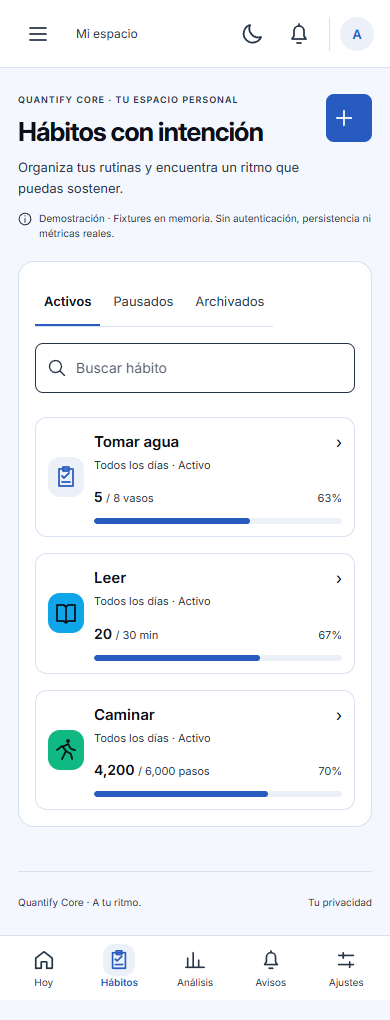
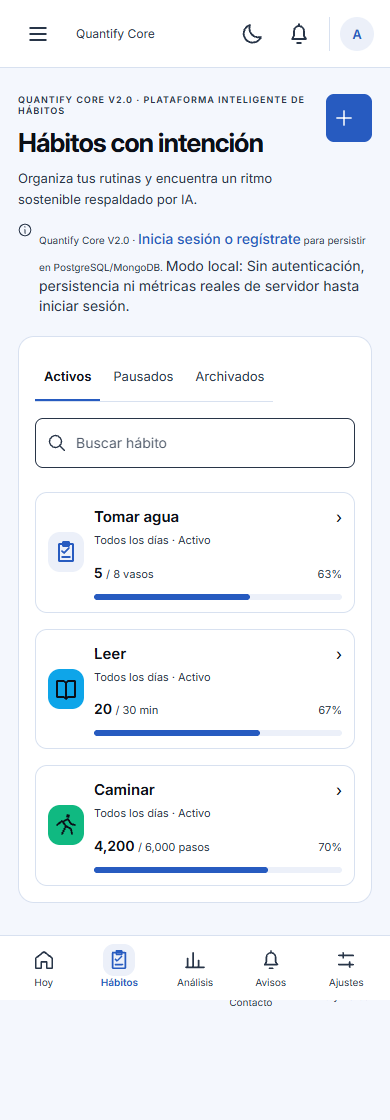
test(web): actualizar pruebas E2E de Playwright, evidencias QA y documentacion

diff --git a/apps/web/tests/e2e/frontend.spec.ts b/apps/web/tests/e2e/frontend.spec.ts
@@ -225,7 +225,7 @@ test("errores, navegación móvil y teclado", async ({ page }) => {
   await expect(page.locator("input[type=password]")).toHaveCount(0);
   await expect(
     page.getByRole("button", { name: "Iniciar sesión con Keycloak" }),
-  ).toBeDisabled();
+  ).toBeEnabled();
   await page.goto("/sesion/vencida");
   await expect(page.getByRole("heading", { level: 1 })).toHaveText(
     "Tu sesión terminó",

diff --git a/apps/web/README.md b/apps/web/README.md
@@ -2,7 +2,7 @@
 
 **Base técnica (16/11/2026):** [guía del equipo](../../docs/guias/base-tecnica.md) para API NestJS, PostgreSQL y Keycloak. La aplicación sigue desconectada; el harness externo verifica IdP/API sin implementar sesión o adaptadores en las pantallas. La topología del prototipo es SPA pública Code+PKCE según [ADR-0007](../../docs/arquitectura/adr/0007-base-tecnica-prototipo.md).
 
-**Estado: base React ejecutable, modular y desconectada, con fixtures explícitos.** No autentica, persiste, sincroniza ni calcula métricas oficiales. Los datos se conservan entre rutas durante la visita y se restablecen al recargar. Las capacidades de PWA quedan como [referencia pendiente de activación](docs/pwa-referencia.md).
+**Estado: aplicación React ejecutable, modular y conectada con Keycloak OIDC (`Code + PKCE S256`) y la API NestJS (`/api/v1`), manteniendo también el modo demostración con fixtures explícitos.** Al iniciar sesión con Keycloak, los hábitos, avances, historial, métricas y perfil se sincronizan con PostgreSQL. Las capacidades de PWA quedan como [referencia pendiente de activación](docs/pwa-referencia.md).
 
 ## Ejecutar y verificar
 
